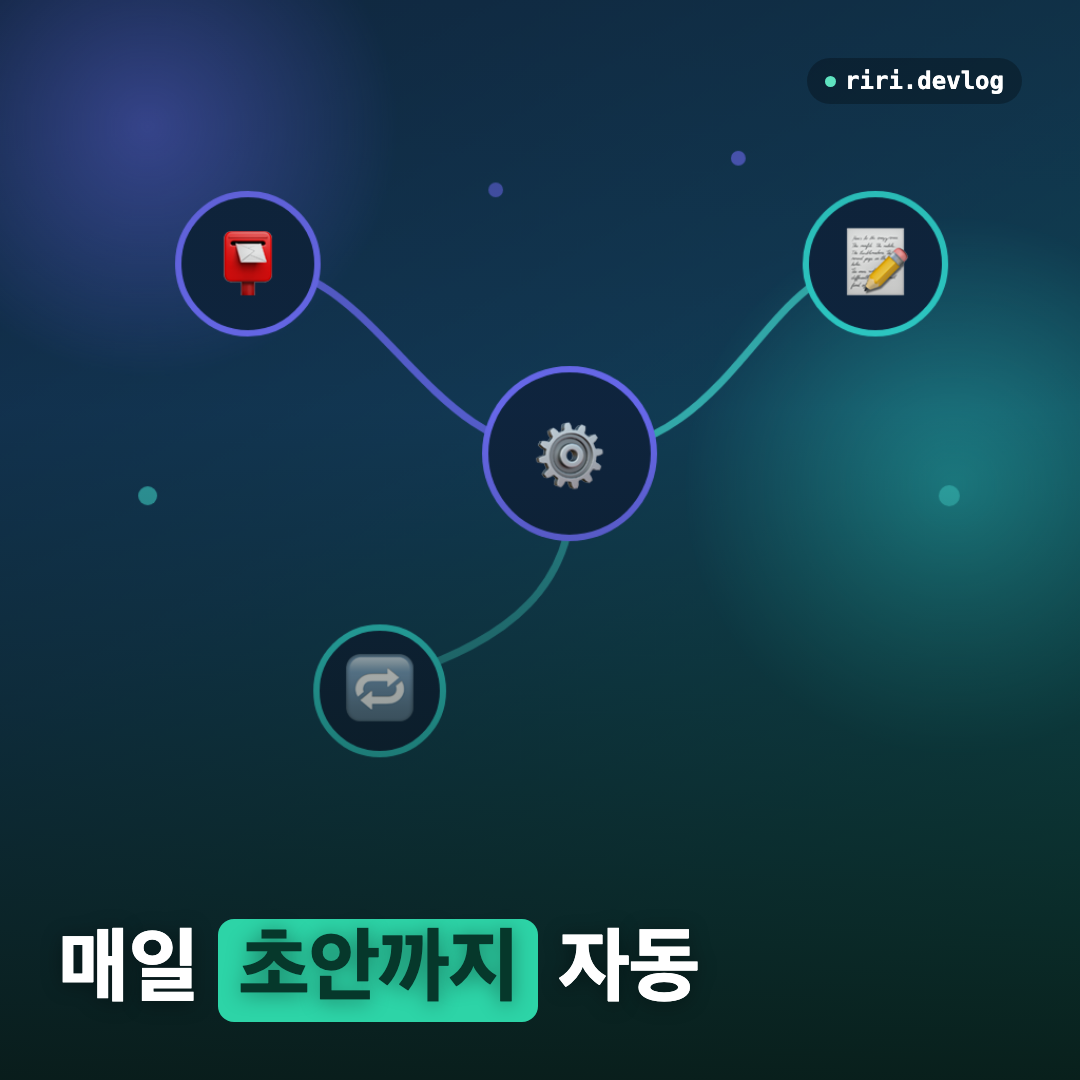
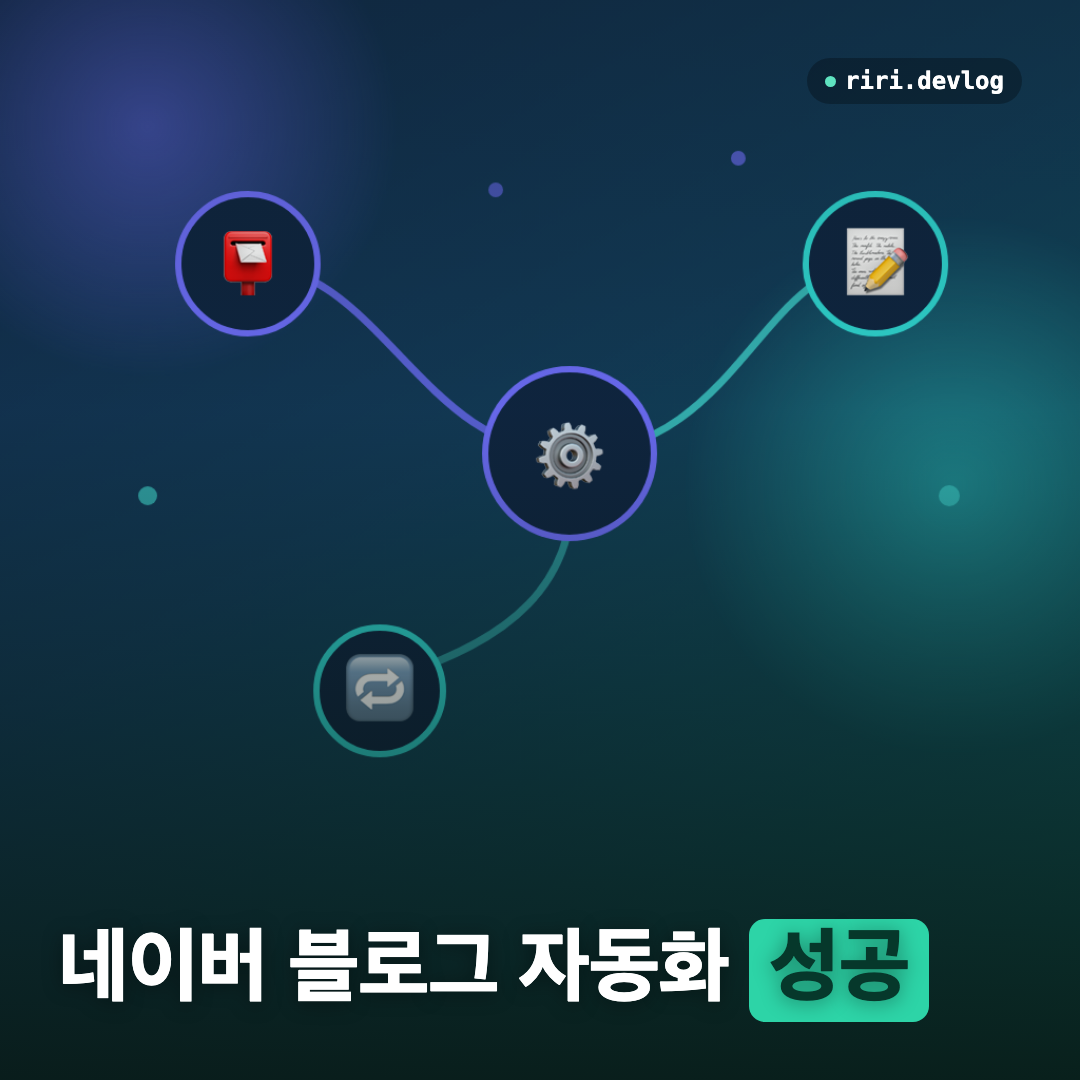
fix: 카드 헤드라인을 주제 식별형으로(티저 금지) — 네이버 2건 재생성

Changed region(s): [[0.1222, 0.825, 0.8861, 0.9472], [0.0611, 0.8556, 0.0917, 0.9167]]

diff --git a/_posts/2026-07-28-naver-blog-publish-automation.md b/_posts/2026-07-28-naver-blog-publish-automation.md
@@ -1,6 +1,6 @@
 ---
 title: "네이버 블로그 발행 자동화 — 텔레그램 기록을 AI가 글로, Playwright가 초안까지"
-headline: "매일 초안까지 자동"
+headline: "네이버 블로그 자동화 성공"
 date: 2026-07-28 15:58:30 +0900
 categories: [개발, 자동화]
 tags: [naver-blog, playwright, telegram-bot, claude, automation, unattended-pipeline]

diff --git a/_posts/2026-07-23-naver-smarteditor-playwright-pitfalls.md b/_posts/2026-07-23-naver-smarteditor-playwright-pitfalls.md
@@ -1,6 +1,6 @@
 ---
 title: "네이버 스마트에디터 Playwright 자동화 — 캡션·폰트·콜라주가 조용히 틀어지는 함정 5가지"
-headline: "조용한 실패"
+headline: "스마트에디터 함정 5가지"
 date: 2026-07-23 18:20:00 +0900
 categories: [개발, 자동화]
 tags: [playwright, naver-blog, smarteditor, automation, dom]
